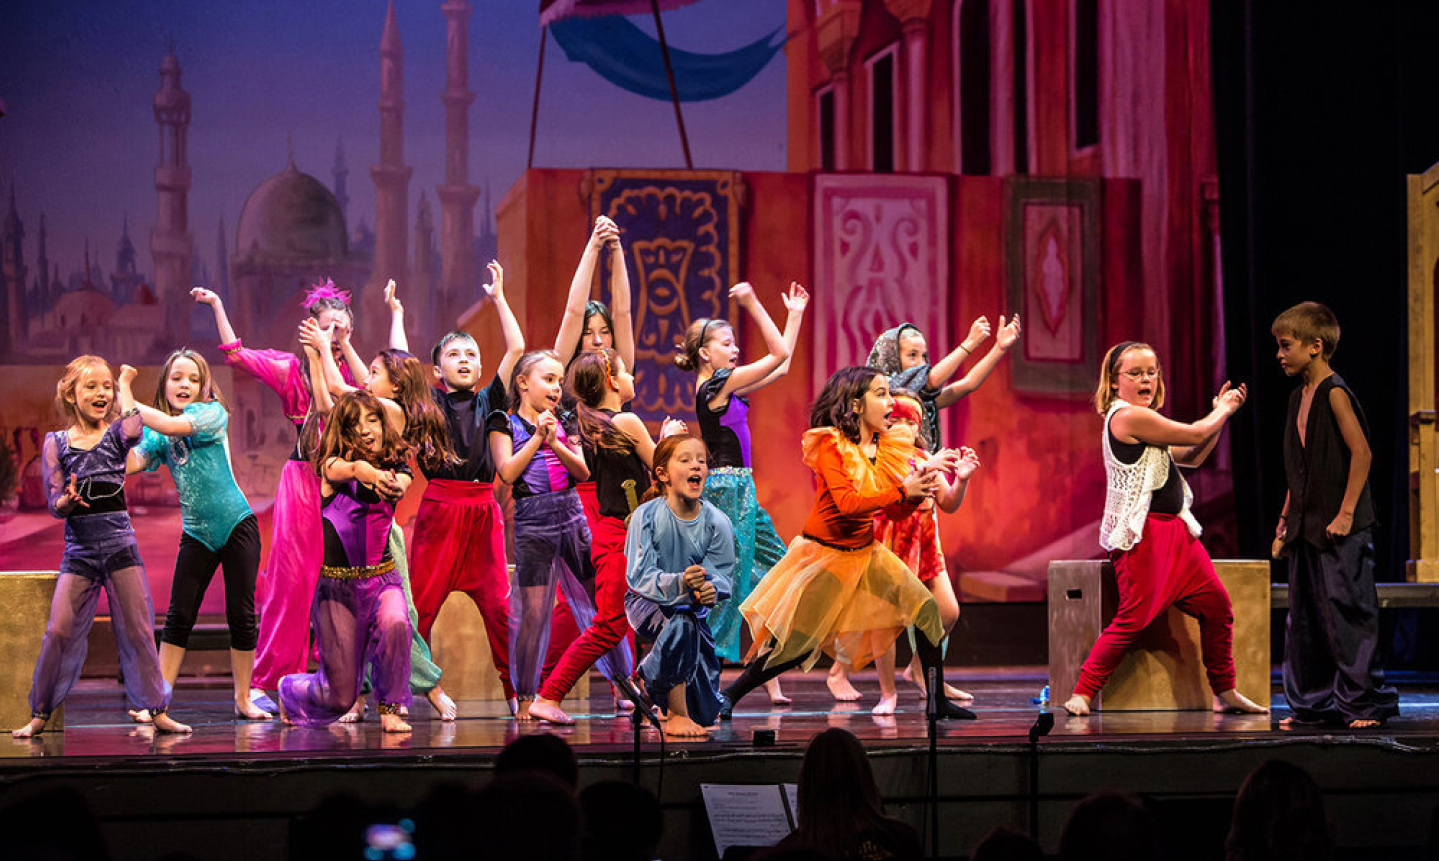
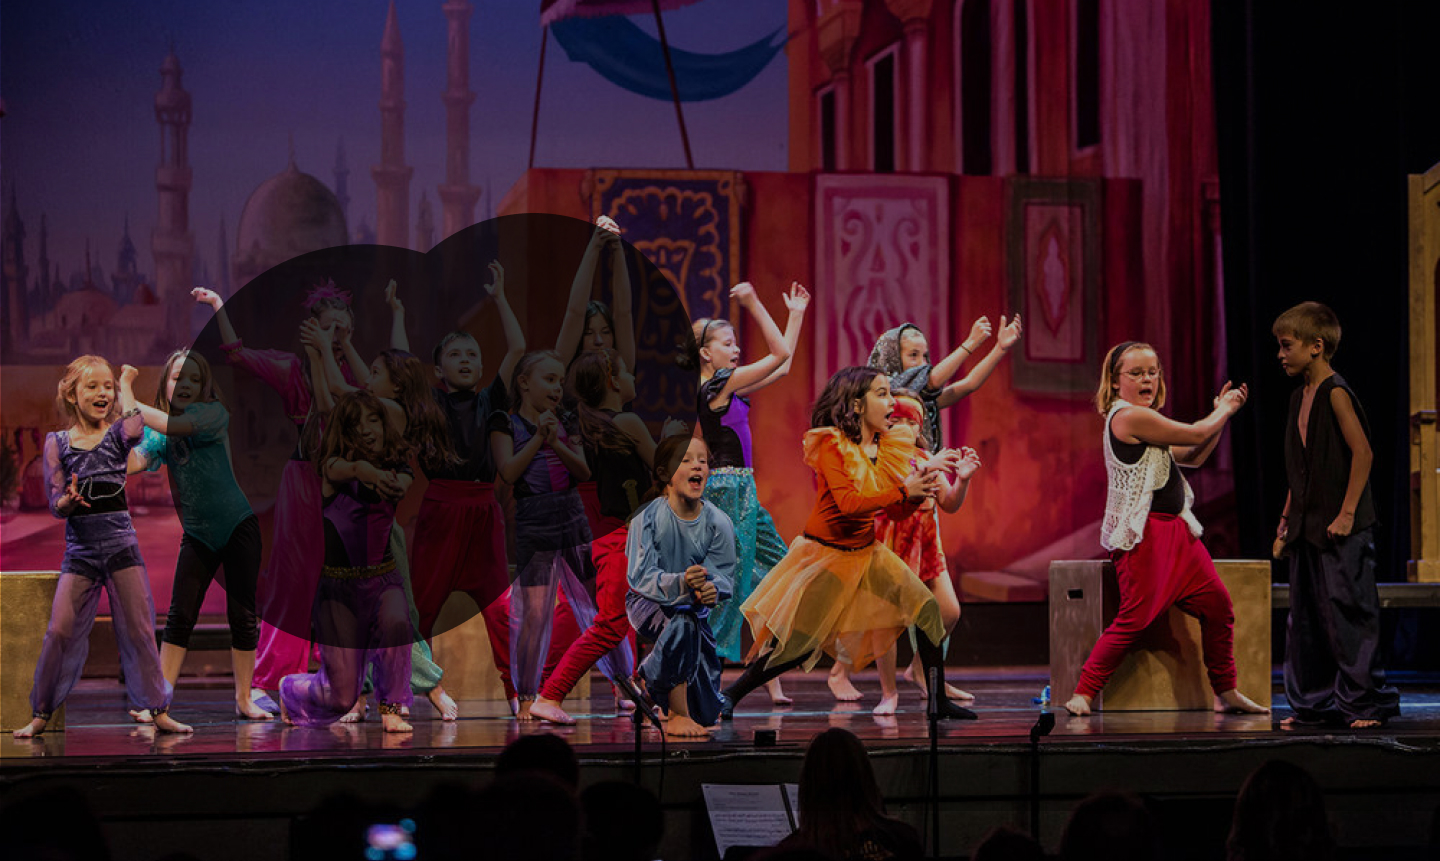
hero changes

diff --git a/assets/css/style.css b/assets/css/style.css
@@ -347,7 +347,7 @@ a.login-button{
 #hero {
   width: 100%;
   height: 100vh;
-  background: url("../img/home/hero-home.jpg") top center no-repeat;
+  background: url("../img/home/hero-home.jpg") center no-repeat;
   background-size: cover;
   position: relative;
   padding-top: 82px;
@@ -355,7 +355,7 @@ a.login-button{
 
 #hero:before {
   content: "";
-  background: rgba(0, 0, 0, 0.5);
+  background: rgba(0, 0, 0, 0.3);
   position: absolute;
   bottom: 0;
   top: 0;
